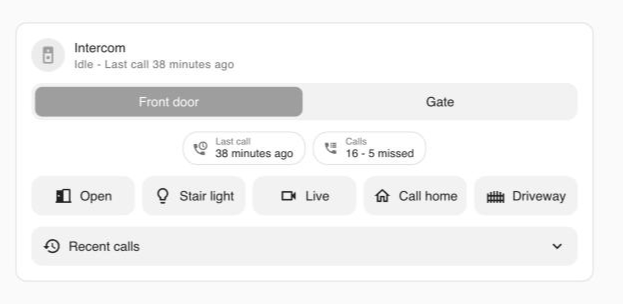
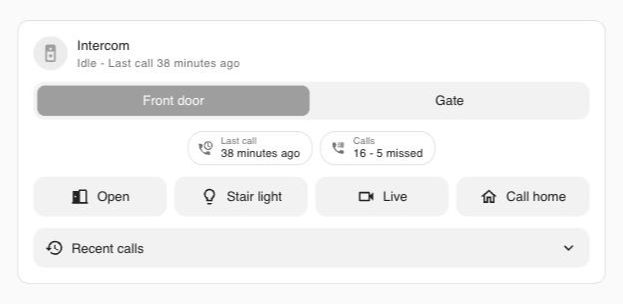
docs: keep the example action out of the general screenshots
A Driveway button in the first picture of the card reads as something
the intercom provides, when it is an entity the reader has to add
themselves. The seven general screenshots now show the card as it
comes, and the free action has one image of its own, where the feature
is explained.

diff --git a/README.md b/README.md
@@ -159,7 +159,8 @@ that is ringing is marked with a dot and selected on its own - and the choice ma
 back once the call is over. **Answer** always opens the one that rang, and the header says which
 entrance it is.
 
-Buttons for things outside the integration go in `actions`:
+Buttons for things the integration does not own - a gate on another system, a scene, a script -
+go in `actions`, and appear after the built-in ones:
 
 ```yaml
 actions:
@@ -167,6 +168,8 @@ actions:
     name: Driveway
     icon: mdi:gate
 ```
+
+<img src="docs/images/card-100x-actions.png" width="420" alt="The card with an extra button for a gate outside the integration">
 
 Without a `service` the card picks the obvious one for the domain - `lock.open` where the lock has
 a latch, `toggle` for a light or a switch, `press` for a button - and `service` overrides it. While it rings the
